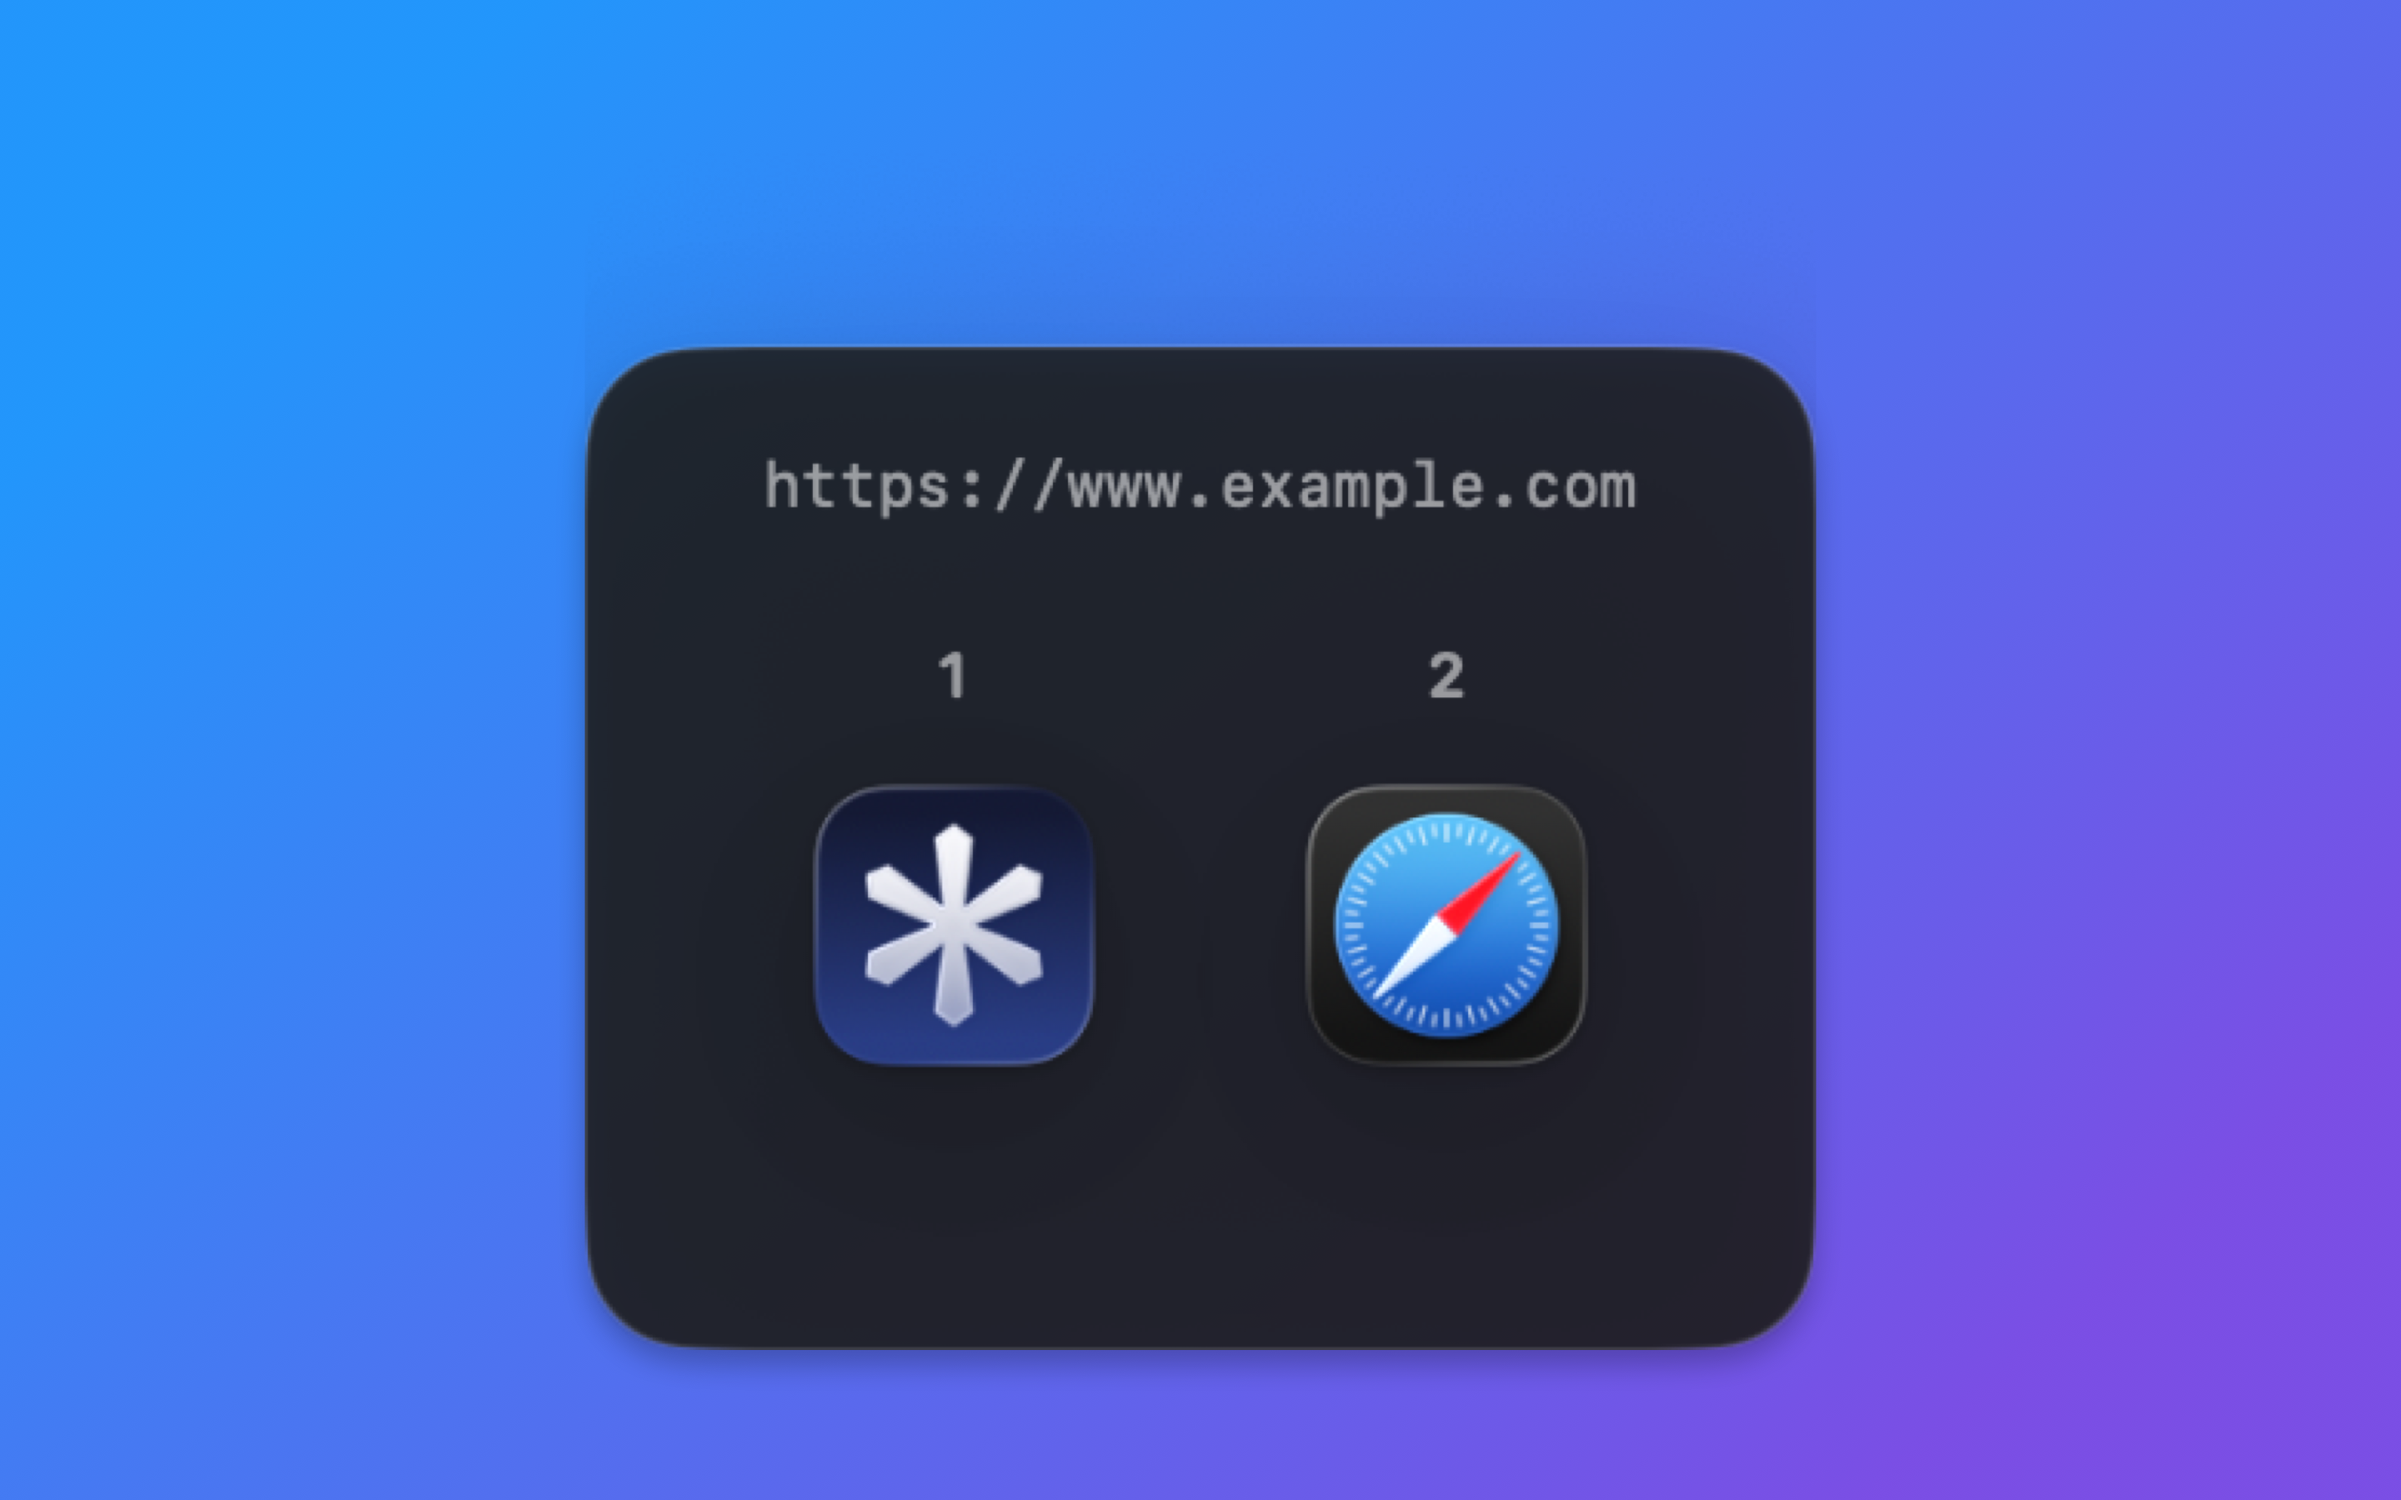
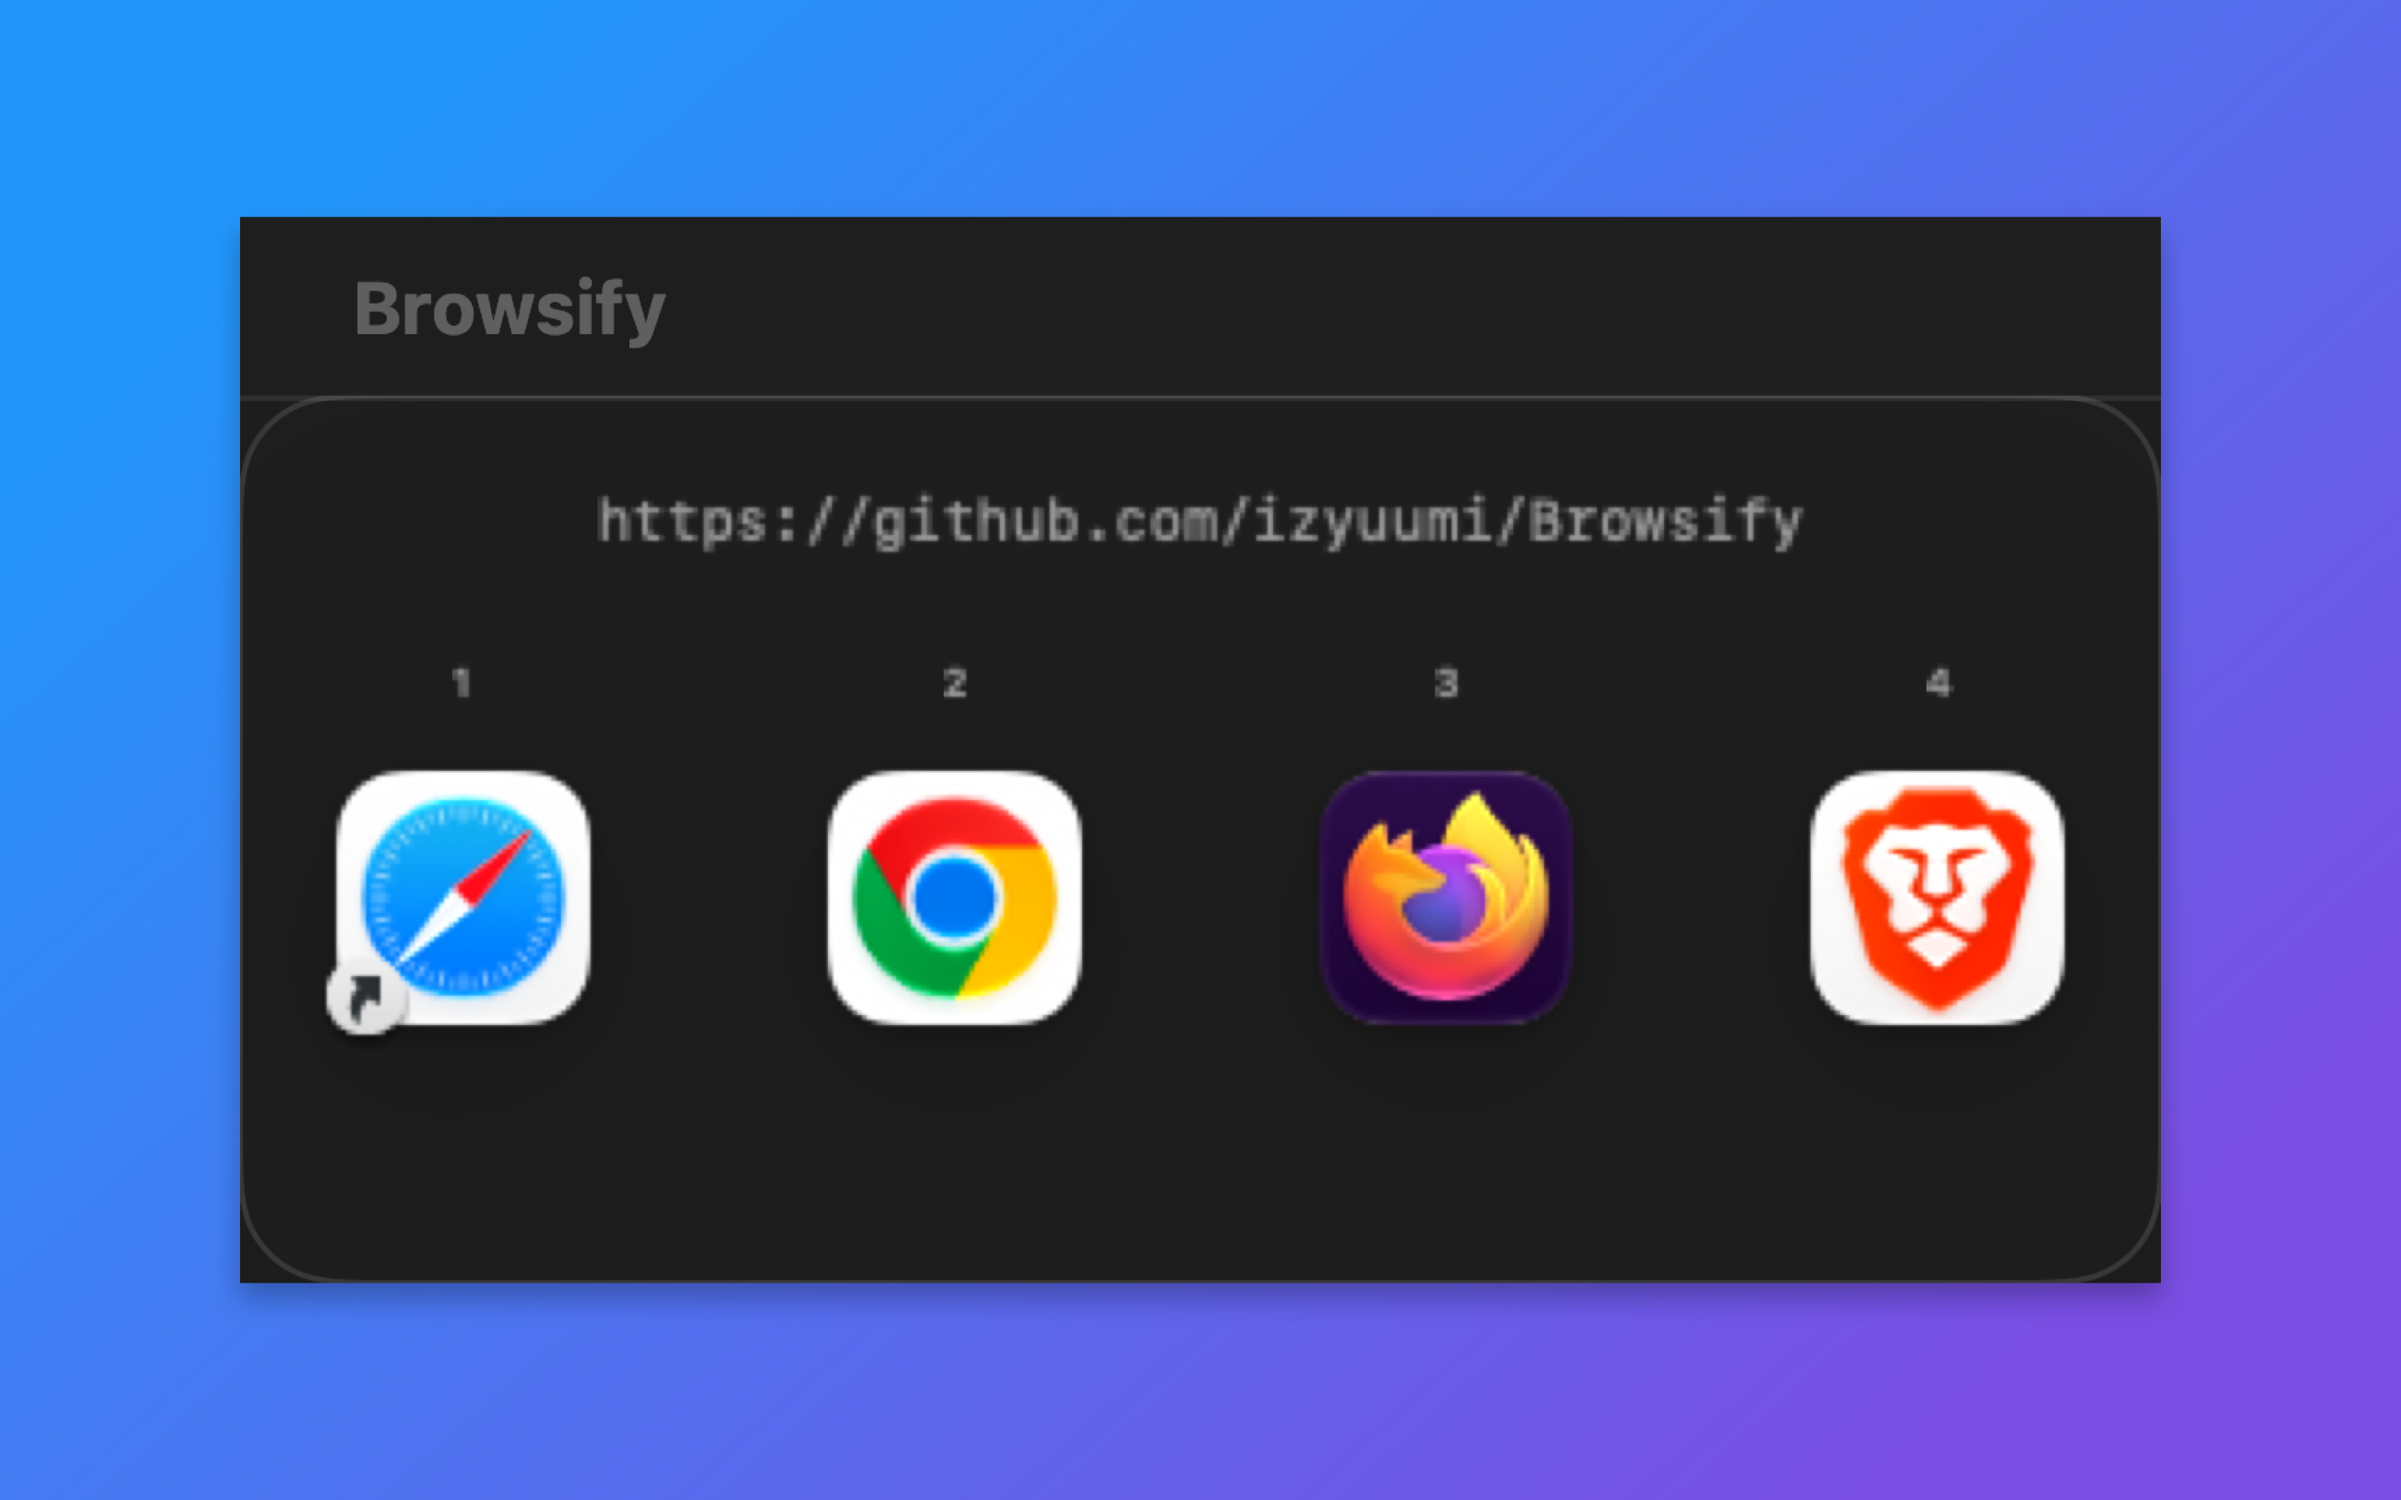
design: refresh browser screenshots

diff --git a/Browsify/UIScreenshotExporter.swift b/Browsify/UIScreenshotExporter.swift
@@ -39,10 +39,10 @@ enum UIScreenshotExporter {
         let handlerDetector = handler.getBrowserDetector()
         handlerDetector.allBrowsers = detector.allBrowsers
         handlerDetector.browsers = detector.browsers
-        handler.pendingURL = URL(string: "https://browsify-ui-test.invalid/a/long/path?query=screenshot")
+        handler.pendingURL = URL(string: "https://github.com/izyuumi/Browsify")
         try capture(
             BrowserPickerView(urlHandler: handler, browserDetector: handlerDetector),
-            size: NSSize(width: 264, height: 132),
+            size: NSSize(width: 344, height: 132),
             styleMask: [.titled, .fullSizeContentView],
             name: "02-browser-picker",
             directory: directory
@@ -108,24 +108,32 @@ enum UIScreenshotExporter {
         let detector = BrowserDetector()
         RunLoop.main.run(until: Date().addingTimeInterval(0.1))
 
+        let firefoxPath = ProcessInfo.processInfo.environment["BROWSIFY_SCREENSHOT_FIREFOX_PATH"]
+            ?? "/Applications/Firefox.app"
         let browsers = [
             Browser(
                 id: UUID(uuidString: "10000000-0000-0000-0000-000000000001")!,
-                name: "Brave Browser",
-                bundleIdentifier: "com.brave.Browser",
-                path: "/Applications/Brave Browser.app"
+                name: "Safari",
+                bundleIdentifier: "com.apple.Safari",
+                path: "/Applications/Safari.app"
             ),
             Browser(
                 id: UUID(uuidString: "10000000-0000-0000-0000-000000000002")!,
-                name: "Firefox",
-                bundleIdentifier: "org.mozilla.firefox",
-                path: "/Applications/Firefox.app"
-            ),
-            Browser(
-                id: UUID(uuidString: "10000000-0000-0000-0000-000000000003")!,
                 name: "Google Chrome",
                 bundleIdentifier: "com.google.Chrome",
                 path: "/Applications/Google Chrome.app"
+            ),
+            Browser(
+                id: UUID(uuidString: "10000000-0000-0000-0000-000000000003")!,
+                name: "Firefox",
+                bundleIdentifier: "org.mozilla.firefox",
+                path: firefoxPath
+            ),
+            Browser(
+                id: UUID(uuidString: "10000000-0000-0000-0000-000000000004")!,
+                name: "Brave Browser",
+                bundleIdentifier: "com.brave.Browser",
+                path: "/Applications/Brave Browser.app"
             )
         ]
         detector.allBrowsers = browsers
@@ -195,9 +203,22 @@ enum UIScreenshotExporter {
 
     private static func write(_ view: NSView, name: String, directory: URL) throws {
         view.layoutSubtreeIfNeeded()
-        guard let bitmap = view.bitmapImageRepForCachingDisplay(in: view.bounds) else {
+        let scale: CGFloat = 4
+        guard let bitmap = NSBitmapImageRep(
+            bitmapDataPlanes: nil,
+            pixelsWide: Int(view.bounds.width * scale),
+            pixelsHigh: Int(view.bounds.height * scale),
+            bitsPerSample: 8,
+            samplesPerPixel: 4,
+            hasAlpha: true,
+            isPlanar: false,
+            colorSpaceName: .deviceRGB,
+            bytesPerRow: 0,
+            bitsPerPixel: 0
+        ) else {
             throw ScreenshotError.bitmap(name)
         }
+        bitmap.size = view.bounds.size
         view.cacheDisplay(in: view.bounds, to: bitmap)
         guard let data = bitmap.representation(using: .png, properties: [:]) else {
             throw ScreenshotError.encoding(name)

diff --git a/Website/public/index.html b/Website/public/index.html
@@ -90,9 +90,29 @@
         <h2 id="product-title">Set it once.<br>Forget the friction.</h2>
         <p>Rules cover predictable links. A keyboard-first picker appears for everything else.</p>
       </div>
-      <div class="product-window">
-        <div class="window-bar" aria-hidden="true"><span></span><span></span><span></span></div>
-        <img src="assets/welcome.webp" alt="Browsify welcome window with default-browser setup and optional profile access" width="1920" height="1200">
+      <div class="product-gallery">
+        <div class="product-window product-window-picker">
+          <img
+            src="assets/picker.webp"
+            srcset="assets/picker-960.webp 960w, assets/picker.webp 1920w"
+            sizes="(max-width: 600px) calc(100vw - 28px), (max-width: 860px) calc(100vw - 48px), 62vw"
+            alt="Browsify browser picker offering Safari, Google Chrome, Firefox, and Brave"
+            width="1920"
+            height="1200"
+            loading="lazy"
+            decoding="async">
+        </div>
+        <div class="product-window product-window-welcome">
+          <img
+            src="assets/welcome.webp"
+            srcset="assets/welcome-960.webp 960w, assets/welcome.webp 1920w"
+            sizes="(max-width: 600px) calc(100vw - 28px), (max-width: 860px) calc(100vw - 48px), 30vw"
+            alt="Browsify welcome window with default-browser setup and optional profile access"
+            width="1920"
+            height="1200"
+            loading="lazy"
+            decoding="async">
+        </div>
       </div>
     </section>
 

diff --git a/Website/public/styles.css b/Website/public/styles.css
@@ -473,6 +473,11 @@ main > section,
   margin-top: 28px;
 }
 
+.product-gallery {
+  position: relative;
+  padding: 0 56px 72px 0;
+}
+
 .product-window {
   overflow: hidden;
   border-radius: var(--radius);
@@ -486,17 +491,19 @@ main > section,
   transform: rotate(0deg) translateY(-4px);
 }
 
-.window-bar {
-  display: flex;
-  gap: 7px;
-  padding: 12px 14px;
+.product-window img {
+  width: 100%;
+  height: auto;
+  aspect-ratio: 8 / 5;
+  object-fit: cover;
 }
 
-.window-bar span {
-  width: 9px;
-  height: 9px;
-  border-radius: 50%;
-  background: oklch(0.72 0.02 253);
+.product-window-welcome {
+  position: absolute;
+  right: 0;
+  bottom: 0;
+  width: 48%;
+  transform: rotate(-2deg);
 }
 
 .features {
@@ -707,8 +714,11 @@ main > section,
     min-height: 140px;
   }
 
-  .product-window {
+  .product-gallery {
     grid-row: 1;
+  }
+
+  .product-window {
     transform: none;
   }
 
@@ -778,6 +788,17 @@ main > section,
   }
 
   .demo-examples button {
+    width: 100%;
+  }
+
+  .product-gallery {
+    display: grid;
+    gap: 16px;
+    padding: 0;
+  }
+
+  .product-window-welcome {
+    position: relative;
     width: 100%;
   }
 
